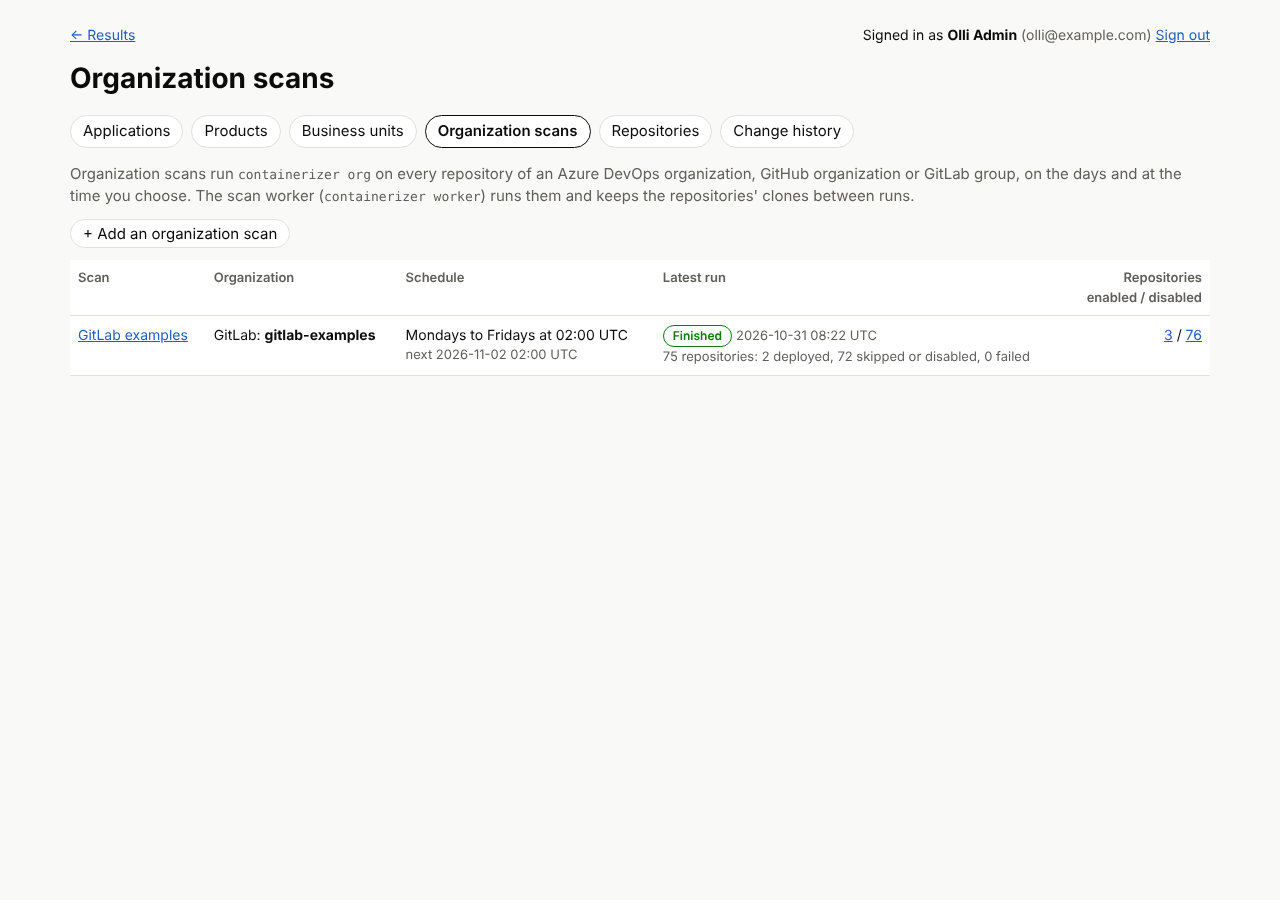
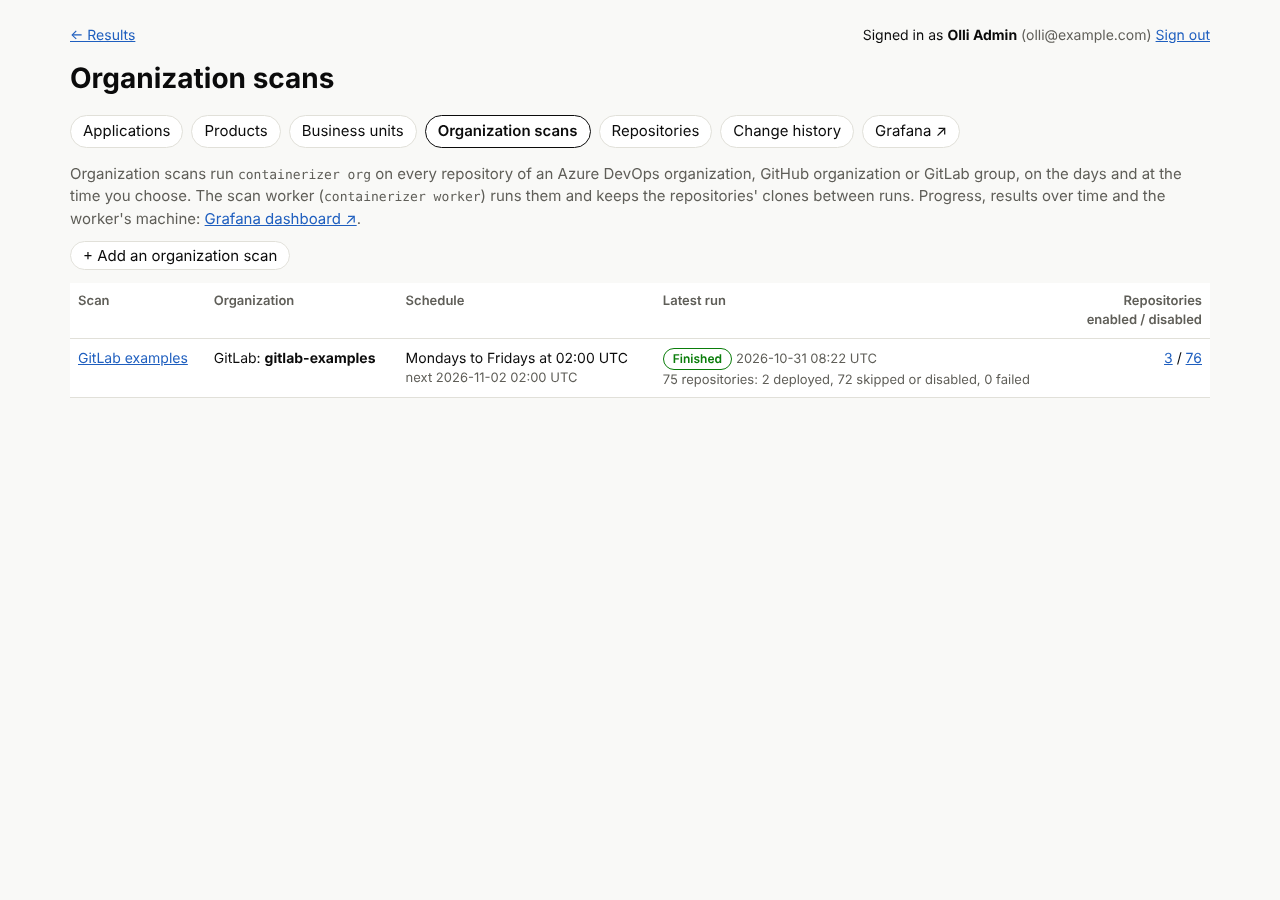
Admin pages: Grafana link from CONTAINERIZER_GRAFANA_URL (https, or http to localhost; checked at start)
Claude-Session: https://claude.ai/code/session_01HpAsQcaWbZaCBbjjTAtPxS

Changed region(s): [[0.0625, 0.2178, 0.8125, 0.4356], [0.8438, 0.28, 0.9375, 0.4044], [0.6875, 0.1244, 0.75, 0.1556]]

diff --git a/containerizer/admin.py b/containerizer/admin.py
@@ -23,6 +23,8 @@ e = html.escape
 MAX_BODY = 64 * 1024
 LIMITS = {"Name": 200, "DisplayName": 200, "Description": 1000, "Owner": 200, "InfoUrl": 400}
 URL_RE = re.compile(r"https://[A-Za-z0-9.-]+(:\d{1,5})?(/[^\s<>\"'`]*)?")
+# a Grafana link from the environment: https, or plain http to this machine only (a local demo)
+LINK_RE = re.compile(r"(https://[A-Za-z0-9.-]+|http://(localhost|127\.0\.0\.1|\[::1\]))(:\d{1,5})?(/[^\s<>\"'`]*)?")
 TABLE_TEXT = {"BusinessUnit": "Business unit", "Product": "Product", "Application": "Application",
               "OrgScan": "Organization scan", "OrgRepository": "Repository"}
 FIELD_TEXT = {"Name": "Name", "DisplayName": "Display name", "Description": "Description", "Owner": "Owner",
@@ -59,6 +61,7 @@ class Admin:
         self.provider = provider or Provider(cfg)
         self.sessions = Sessions()
         self.api = None                             # api.Api when the JSON API is configured
+        self.grafana_url = ""                       # CONTAINERIZER_GRAFANA_URL: link on the admin pages
         self.cookie = ("__Host-" if cfg.secure else "") + "cz_session"
         self.login_cookie = ("__Host-" if cfg.secure else "") + "cz_login"
 
@@ -286,6 +289,9 @@ class Admin:
                                     ("business-units", "Business units"), ("scans", "Organization scans"),
                                     ("repositories", "Repositories"), ("audit", "Change history"))
                        + ((("access", "Access log"),) if self.cfg.view_audit else ()))
+        if self.grafana_url:
+            tabs += (f"<a class='chip' href='{e(self.grafana_url)}' rel='noopener noreferrer' target='_blank'"
+                     f" title='Metrics of the scans and the scan worker'>Grafana ↗</a>")
         msg = f"<p class='note'>{e(flash)}</p>" if flash else ""
         return page(title, f"""<div class='topnav'><a href='/'>← Results</a><span>Signed in as <b>{e(s.name)}</b>
 <span class='muted'>({e(s.user)})</span> {self._logout_form(s)}</span></div>
@@ -673,7 +679,11 @@ def build(env=None) -> Admin | None:
     if not cs or not pw:
         raise OidcError("sign-in is configured: also set CONTAINERIZER_ADMIN_SQL and CONTAINERIZER_ADMIN_SQL_PASSWORD "
                         "(a login in the <schema>_admin role)")
+    grafana = (env.get("CONTAINERIZER_GRAFANA_URL") or "").strip()
+    if grafana and not LINK_RE.fullmatch(grafana):
+        raise OidcError("CONTAINERIZER_GRAFANA_URL must be an https:// link (http:// only to localhost)")
     from . import api
     adm = Admin(cfg, lambda: connect(cs, pw))
+    adm.grafana_url = grafana
     adm.api = api.build(env, adm.provider, adm.connect_admin)
     return adm

diff --git a/tests/test_admin.py b/tests/test_admin.py
@@ -587,3 +587,21 @@ def test_viewer_sign_in_and_access_log(idp, tmp_path):
         m = sqlstore.connect(re.sub(r"Database=\w+", "Database=master", cs), autocommit=True)
         m.cursor().execute(f"ALTER DATABASE [{name}] SET SINGLE_USER WITH ROLLBACK IMMEDIATE; DROP DATABASE [{name}]")
         m.close()
+
+
+def test_grafana_link_from_environment():
+    from containerizer.admin import build
+    from containerizer.oidc import Session
+    base = {"CONTAINERIZER_OIDC_ISSUER": "https://login.example.com", "CONTAINERIZER_OIDC_CLIENT_ID": "c",
+            "CONTAINERIZER_OIDC_CLIENT_SECRET": "s", "CONTAINERIZER_PUBLIC_URL": "https://cz.example.com",
+            "CONTAINERIZER_ADMINS": "group:g", "CONTAINERIZER_ADMIN_SQL": "Server=x", "CONTAINERIZER_ADMIN_SQL_PASSWORD": "p"}
+    s = Session(user="u", name="U", admin=True)
+    assert "Grafana" not in build(base)._shell(s, "T", "scans", "")
+    url = "https://grafana.example.com/d/containerizer-scans/scans?orgId=1&var-job=cz"
+    page = build({**base, "CONTAINERIZER_GRAFANA_URL": url})._shell(s, "T", "scans", "")
+    assert "href='https://grafana.example.com/d/containerizer-scans/scans?orgId=1&amp;var-job=cz'" in page
+    assert "rel='noopener noreferrer' target='_blank'" in page
+    assert "Grafana ↗" in build({**base, "CONTAINERIZER_GRAFANA_URL": "http://localhost:3000/d/x"})._shell(s, "T", "scans", "")
+    for bad in ("http://grafana.example.com", "javascript:alert(1)", "https://g.example.com/'><script>", "ftp://g"):
+        with pytest.raises(OidcError, match="GRAFANA_URL"):
+            build({**base, "CONTAINERIZER_GRAFANA_URL": bad})

diff --git a/containerizer/admin_scans.py b/containerizer/admin_scans.py
@@ -121,6 +121,12 @@ def route(adm, conn, s, method: str, kind: str, parts: list, q: dict, form: dict
     return _nf()
 
 
+def _grafana(adm) -> str:
+    url = getattr(adm, "grafana_url", "")
+    return (f" Progress, results over time and the worker's machine: <a href='{e(url)}' rel='noopener noreferrer'"
+            f" target='_blank'>Grafana dashboard ↗</a>.") if url else ""
+
+
 def _nf() -> Response:
     return Response(404, page("Not found", "<h1>Not found</h1>"))
 
@@ -167,7 +173,7 @@ def list_scans(adm, conn, s, flash: str) -> Response:
             f"<a href='/admin/repositories?scan={int(r['ScanId'])}&amp;show=disabled'>{int(r['ReposOff'])}</a></td></tr>")
     body = (f"<p class='muted'>Organization scans run <code>containerizer org</code> on every repository of an Azure DevOps "
             f"organization, GitHub organization or GitLab group, on the days and at the time you choose. The scan worker "
-            f"(<code>containerizer worker</code>) runs them and keeps the repositories' clones between runs.</p>"
+            f"(<code>containerizer worker</code>) runs them and keeps the repositories' clones between runs.{_grafana(adm)}</p>"
             f"<p><a class='chip' href='/admin/scans/new'>+ Add an organization scan</a></p>"
             f"<table><thead><tr><th>Scan</th><th>Organization</th><th>Schedule</th><th>Latest run</th>"
             f"<th class='num'>Repositories<div class='small'>enabled / disabled</div></th></tr></thead>"

diff --git a/docs/results-database.md b/docs/results-database.md
@@ -253,6 +253,7 @@ They appear when sign-in is configured; without it the UI is the read-only resul
 | `CONTAINERIZER_PUBLIC_URL` | The address users open, e.g. `https://containerizer.example.com`. The redirect URI to register is this plus `/auth/callback`. |
 | `CONTAINERIZER_ADMINS` | Who is an administrator, comma separated: `group:<group object id>`, `role:<app role>`, `email:<address>`, `domain:<e-mail domain>`, `sub:<subject id>`. `email:` and `domain:` only match when the provider marks the address verified (`email_verified`). Nobody else gets in. |
 | `CONTAINERIZER_ADMIN_SQL` / `CONTAINERIZER_ADMIN_SQL_PASSWORD` | Connection string and password of the `containerizer_admin` login the admin pages write with. |
+| `CONTAINERIZER_GRAFANA_URL` | Optional. Link to your Grafana dashboard of the scans ([scheduled-scans.md](scheduled-scans.md#grafana-dashboard)), shown as **Grafana ↗** on every admin page and on Organization scans. `https://` only (`http://` only to `localhost`); checked at start. |
 | `CONTAINERIZER_OIDC_SCOPES` | Default `openid profile email`. |
 
 With **Microsoft Entra ID**: register a web application with the redirect URI above, add a client

diff --git a/docs/scheduled-scans.md b/docs/scheduled-scans.md
@@ -205,6 +205,11 @@ Import [`monitoring/grafana/containerizer-scans.json`](../monitoring/grafana/con
 (Dashboards → New → Import) and pick your Prometheus data source. Variables: job, worker (instance),
 scan.
 
+Set `CONTAINERIZER_GRAFANA_URL` on the web UI to the dashboard's address (for example
+`https://grafana.example.com/d/containerizer-scans`) and the admin pages link to it:
+a **Grafana ↗** tab on every admin page and a link on Organization scans. It must be `https://`
+(`http://` is accepted only to `localhost`), and the web UI refuses to start with anything else.
+
 ![Grafana dashboard: scans, the machine running the worker, and the worker process](images/grafana-scans-dashboard.png)
 
 - **Scans**: worker up, scans running, runs waiting, time since the last successful run, next run,
